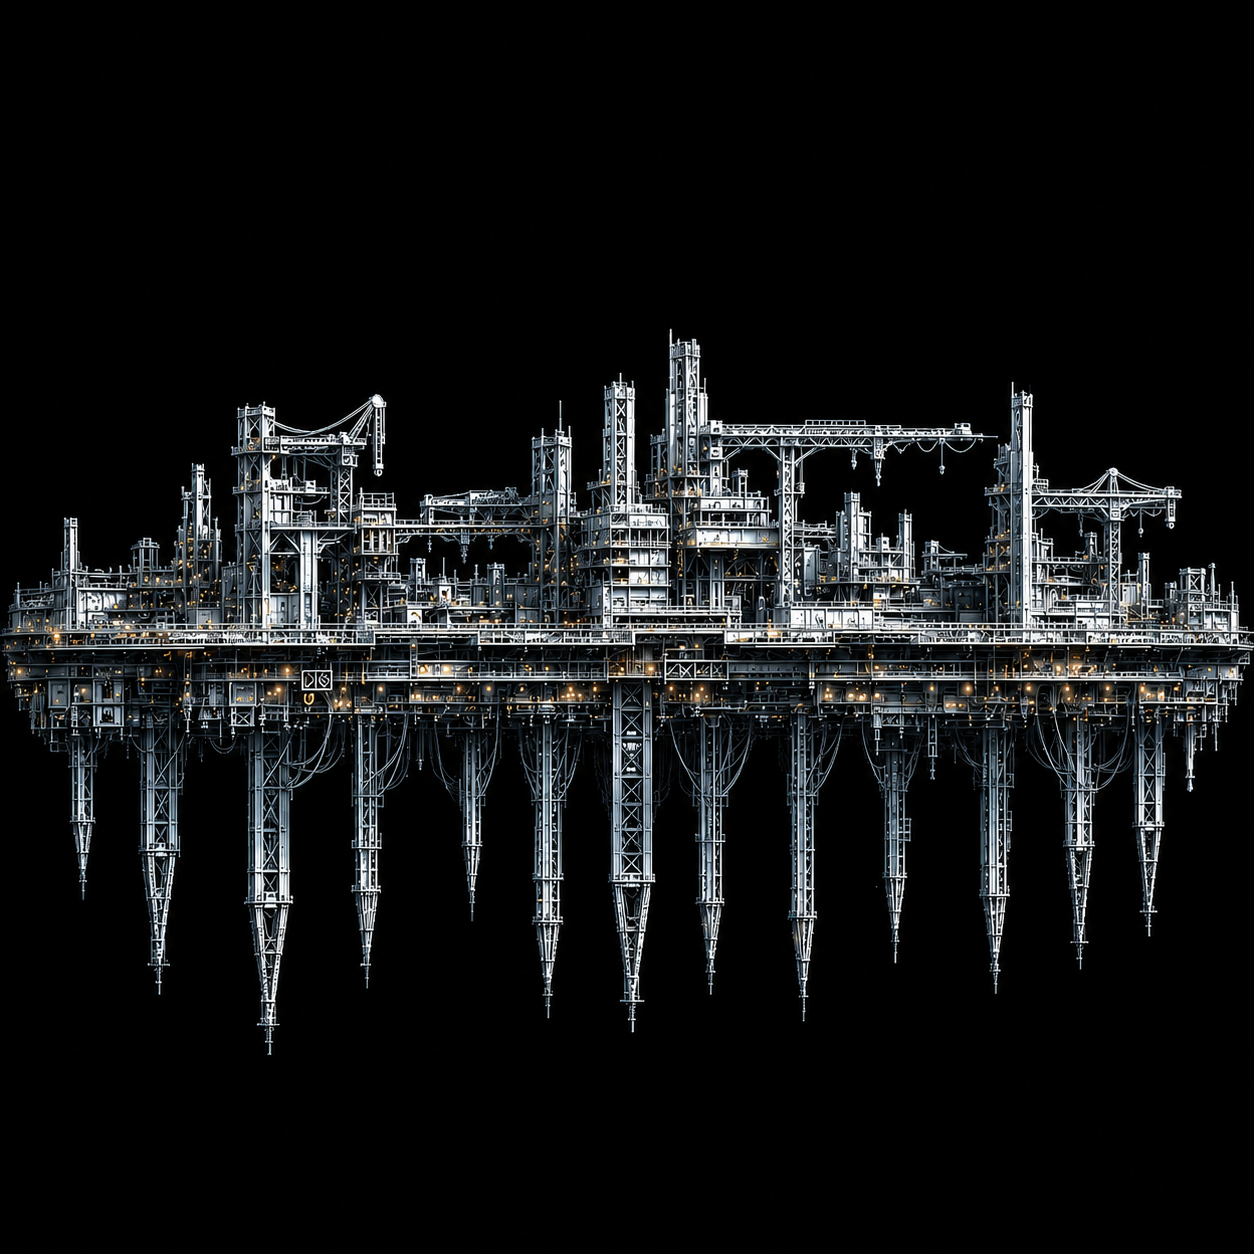
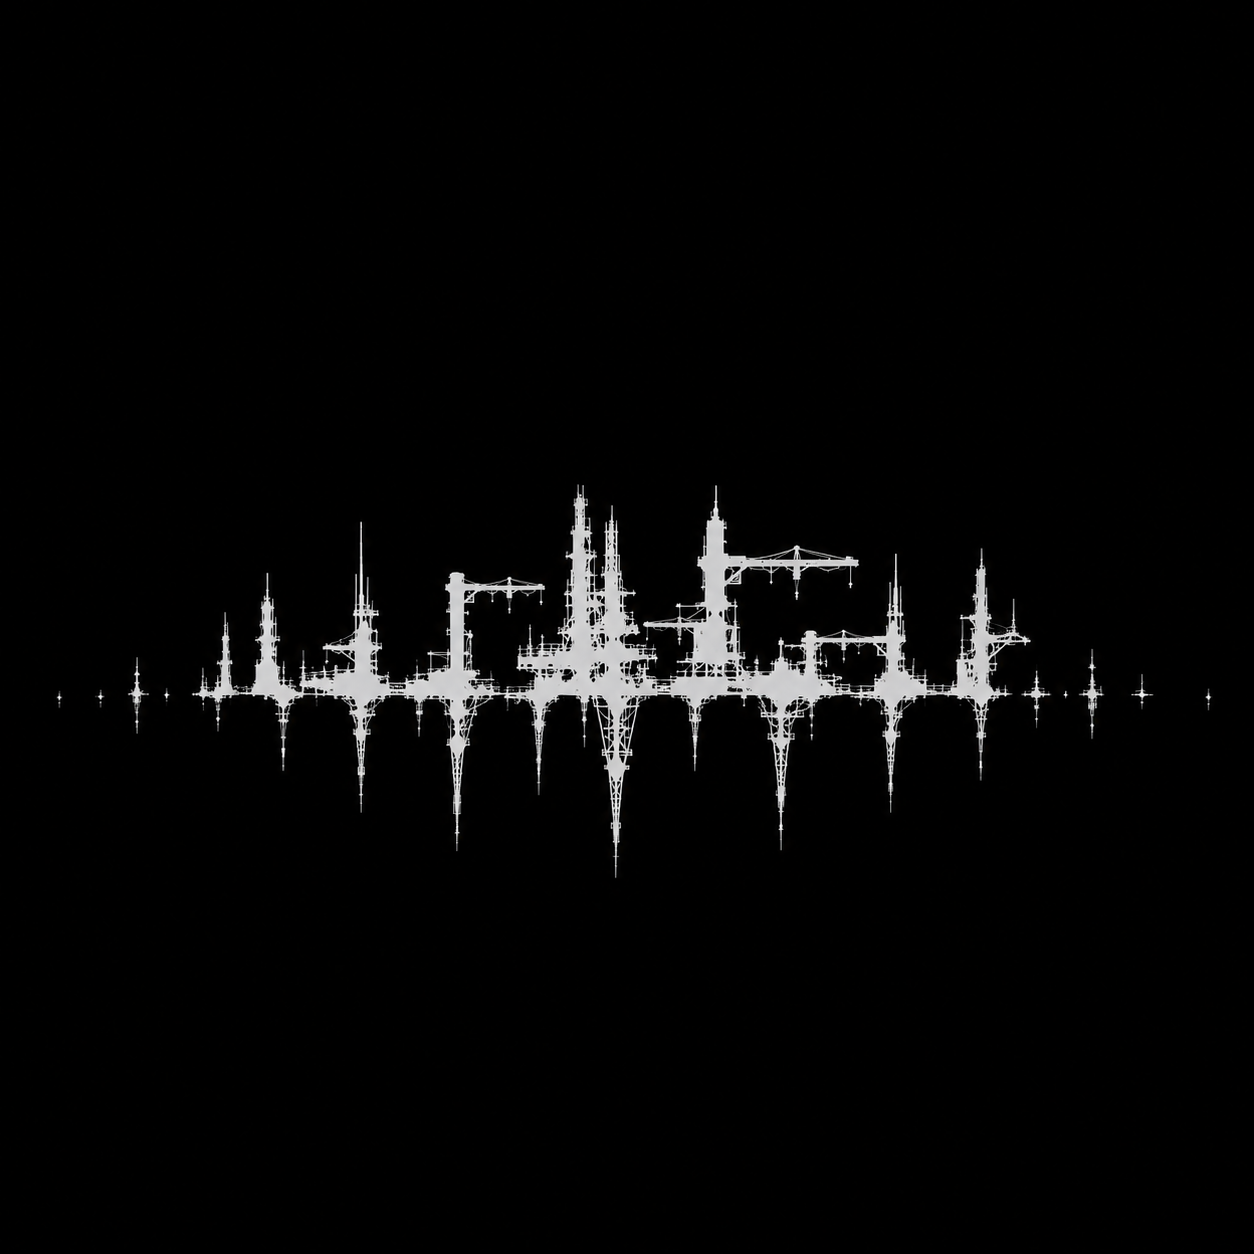
Add an attract demo, drop the tagline, whiten the yard
Three title-screen changes.

ORIGINAL AERIAL MECHA COMBAT is gone. It had been stranded since the
mark was recentred and never had a styling pass.

The yard uses the flat silhouette variant that was delivered alongside
the rendered one and left unused. Detail in the contour, one value
inside - which is what reads as a silhouette rather than as a drawing.

The attract demo: eight seconds of no input on the title starts a real
aiVsAi match with two random machines, runs it for fifteen with the
interface hidden, and returns. It is a real match rather than a scripted
set piece - same simulation, same AI, same arena - which is the only way
an attract screen is honest about the game. EXTREME on both sides
because it plays differently rather than merely better, and because it
produces the longest fights, so fifteen seconds lands mid-exchange
instead of on a knockout.

The whole interface lives on one camera, so the demo hides it in a
single call and anything added later is hidden by construction.

session.demo is cleared on entering the title as well as on leaving the
demo. A flag that survived a reload mid-demo would strip the HUD off the
next real match.

Verified in-browser: idle to Battle with uiCam hidden and two random
mechs, then back to Title. 713 tests, build clean.

Changed region(s): [[0.0, 0.2488, 1.0, 0.8397]]

diff --git a/src/scenes/BattleScene.ts b/src/scenes/BattleScene.ts
@@ -80,6 +80,14 @@ const BLADE_GLOW_LEN = 88;
 const BLADE_GLOW_THICK = 13;
 
 /**
+ * How long the title screen's attract demo runs before returning, in seconds.
+ *
+ * Fifteen is long enough to show an exchange land and short enough that nobody
+ * watching the screen idle mistakes it for having started a match.
+ */
+const DEMO_SECONDS = 15;
+
+/**
  * The playable match.
  *
  * The scene owns a fixed 60Hz accumulator that drives `MatchSim` (which knows
@@ -234,6 +242,8 @@ export class BattleScene extends Phaser.Scene {
   private shake = 0;
   private finished = false;
   private uiCam!: Phaser.Cameras.Scene2D.Camera;
+  /** Seconds the attract demo has been on screen. */
+  private demoElapsed = 0;
   private worldObjects: Phaser.GameObjects.GameObject[] = [];
 
   constructor() {
@@ -496,6 +506,7 @@ export class BattleScene extends Phaser.Scene {
     // A second, unzoomed camera draws the HUD. Camera zoom scales everything it
     // renders, including scrollFactor-0 objects, so the HUD has to live on its
     // own camera or it drifts off-screen whenever the view zooms in.
+    this.demoElapsed = 0;
     this.uiCam = this.cameras.add(0, 0, VIEW_W, VIEW_H);
     this.uiCam.setName('ui');
     this.uiCam.setScroll(0, 0);
@@ -538,6 +549,10 @@ export class BattleScene extends Phaser.Scene {
     ];
     this.cameras.main.ignore(uiObjects);
     this.uiCam.ignore(this.worldObjects);
+    // **The whole interface lives on this camera**, so an attract demo hides it
+    // in one call rather than by tracking every HUD object individually — and
+    // anything added later is hidden by construction instead of by remembering.
+    if (session.demo) this.uiCam.setVisible(false);
 
     this.hud.banner('READY', 60);
     sfx.matchReady();
@@ -764,6 +779,12 @@ export class BattleScene extends Phaser.Scene {
     this.scene.start('Title');
   }
 
+  /** Leaves the attract demo, clearing the flag before the scene changes. */
+  private endDemo(): void {
+    session.demo = false;
+    this.scene.start('Title');
+  }
+
   // -------------------------------------------------------------------- loop
 
   override update(_time: number, delta: number): void {
@@ -778,6 +799,19 @@ export class BattleScene extends Phaser.Scene {
     if (wantDuck !== this.musicDucked) {
       this.musicDucked = wantDuck;
       music.duck(wantDuck);
+    }
+
+    // ---- attract demo ----------------------------------------------------
+    // Runs ahead of everything: a demo must not be pausable, and any input at
+    // all should end it. Timed on wall clock rather than on simulation ticks so
+    // a slow frame cannot stretch it past its welcome.
+    if (session.demo) {
+      this.demoElapsed += delta / 1000;
+      const pressed = ui.confirm || ui.cancel || ui.pause || ui.up || ui.down || ui.left || ui.right;
+      if (this.demoElapsed >= DEMO_SECONDS || pressed) {
+        this.endDemo();
+        return;
+      }
     }
 
     if (ui.toggleDebug) this.debug.toggleText();
@@ -902,7 +936,11 @@ export class BattleScene extends Phaser.Scene {
       session.lastTimeLeft = s.secondsLeft;
       session.lastPlayerLife = s.player.life;
       session.lastEnemyLife = s.enemy.life;
-      this.time.delayedCall(280, () => this.scene.start('Results'));
+      // A demo never reaches the results table — it is an advert, and nobody
+      // asked it who won. A knockout inside the demo window is unlikely but
+      // entirely possible, so this is a real branch rather than a precaution.
+      if (session.demo) this.endDemo();
+      else this.time.delayedCall(280, () => this.scene.start('Results'));
     }
   }
 

diff --git a/src/scenes/TitleScene.ts b/src/scenes/TitleScene.ts
@@ -6,6 +6,8 @@ import { TitleMark } from '../ui/TitleMark';
 import type { TitleDesignId } from '../ui/TitleDesigns';
 import { sfx } from '../audio/Sfx';
 import { music } from '../audio/Music';
+import { Difficulty, session } from '../core/Session';
+import { ROSTER } from '../data/mechs';
 
 /**
  * Which candidate wordmark is on screen.
@@ -15,6 +17,14 @@ import { music } from '../audio/Music';
  * what happened to the first city artwork. Flip this to look at another.
  */
 const TITLE_DESIGN: TitleDesignId = 'instrument';
+
+/**
+ * Seconds of no input before the attract demo starts.
+ *
+ * Long enough that a player who arrived deliberately gets to look at the title
+ * and press start, short enough that an abandoned screen does not sit still.
+ */
+const IDLE_BEFORE_DEMO_S = 8;
 
 /**
  * Attract screen: a vista, the title, and nothing to decide.
@@ -46,6 +56,10 @@ export class TitleScene extends Phaser.Scene {
     this.input$.reset();
     this.t = 0;
     this.armAt = 0.25;
+    // Cleared on the way *in* as well as on the way out. If a demo ever dies
+    // without running its exit — a reload mid-demo, a thrown error — the flag
+    // would otherwise survive and strip the HUD off the next real match.
+    session.demo = false;
 
     // Boot reaches here without a gesture, so this normally sets the intent and
     // the first keypress is what actually starts it. Coming back from a match
@@ -80,7 +94,6 @@ export class TitleScene extends Phaser.Scene {
     // nobody expands it, so a title screen that does would be the one place the
     // game speaks out of character. It is in the README for anyone who wants it.
     this.mark = new TitleMark(this, VIEW_W / 2, 150, TITLE_DESIGN);
-    smallText(this, 'ORIGINAL AERIAL MECHA COMBAT', VIEW_W / 2, 246, 12, '#7d8ea8');
 
     // ---- press start -----------------------------------------------------
     this.prompt = this.add
@@ -113,6 +126,36 @@ export class TitleScene extends Phaser.Scene {
       sfx.unlock();
       sfx.uiConfirm();
       this.scene.start('Menu');
+      return;
     }
+    if (this.t >= IDLE_BEFORE_DEMO_S) this.startDemo();
+  }
+
+  /**
+   * Starts an attract demo: two random machines, both CPU, no interface.
+   *
+   * **A real match**, not a scripted set piece — same simulation, same AI, same
+   * arena. `EXTREME` on both sides because it is the tier that plays
+   * differently rather than merely better, and because it produces the longest
+   * fights, so fifteen seconds lands mid-exchange instead of on a knockout.
+   *
+   * `matchIndex` is bumped here because nothing else will: the demo skips
+   * `MechSelect`, which is normally what advances the seed, so without this
+   * every demo of the same pairing would replay the identical fight.
+   */
+  private startDemo(): void {
+    const ids = ROSTER.map((m) => m.id);
+    const a = Math.floor(Math.random() * ids.length);
+    // Offset rather than re-rolled, so the two are distinct without a loop that
+    // can in principle spin.
+    const b = (a + 1 + Math.floor(Math.random() * (ids.length - 1))) % ids.length;
+    session.playerMech = ids[a];
+    session.enemyMech = ids[b];
+    session.mode = 'aiVsAi';
+    session.playerDifficulty = Difficulty.Extreme;
+    session.enemyDifficulty = Difficulty.Extreme;
+    session.matchIndex++;
+    session.demo = true;
+    this.scene.start('Battle');
   }
 }

diff --git a/src/core/Session.ts b/src/core/Session.ts
@@ -100,6 +100,18 @@ export const session = {
    * what lets a second arena arrive as data instead of as a code change.
    */
   arena: 'cathedral_yard',
+  /**
+   * True while the title screen's attract demo is running.
+   *
+   * A demo is a real `aiVsAi` match with its interface hidden and a hard time
+   * limit, not a special mode — the simulation, the AI and the presentation are
+   * the ones the player will actually get, which is the only way an attract
+   * screen is honest about the game.
+   *
+   * Not persisted, and cleared by `TitleScene` on entry as well as on exit: a
+   * flag that survives a crash mid-demo would leave a real match with no HUD.
+   */
+  demo: false,
   /** Incremented per match so each rematch gets a fresh deterministic seed. */
   matchIndex: 0,
   lastOutcome: 'none' as MatchOutcome,
